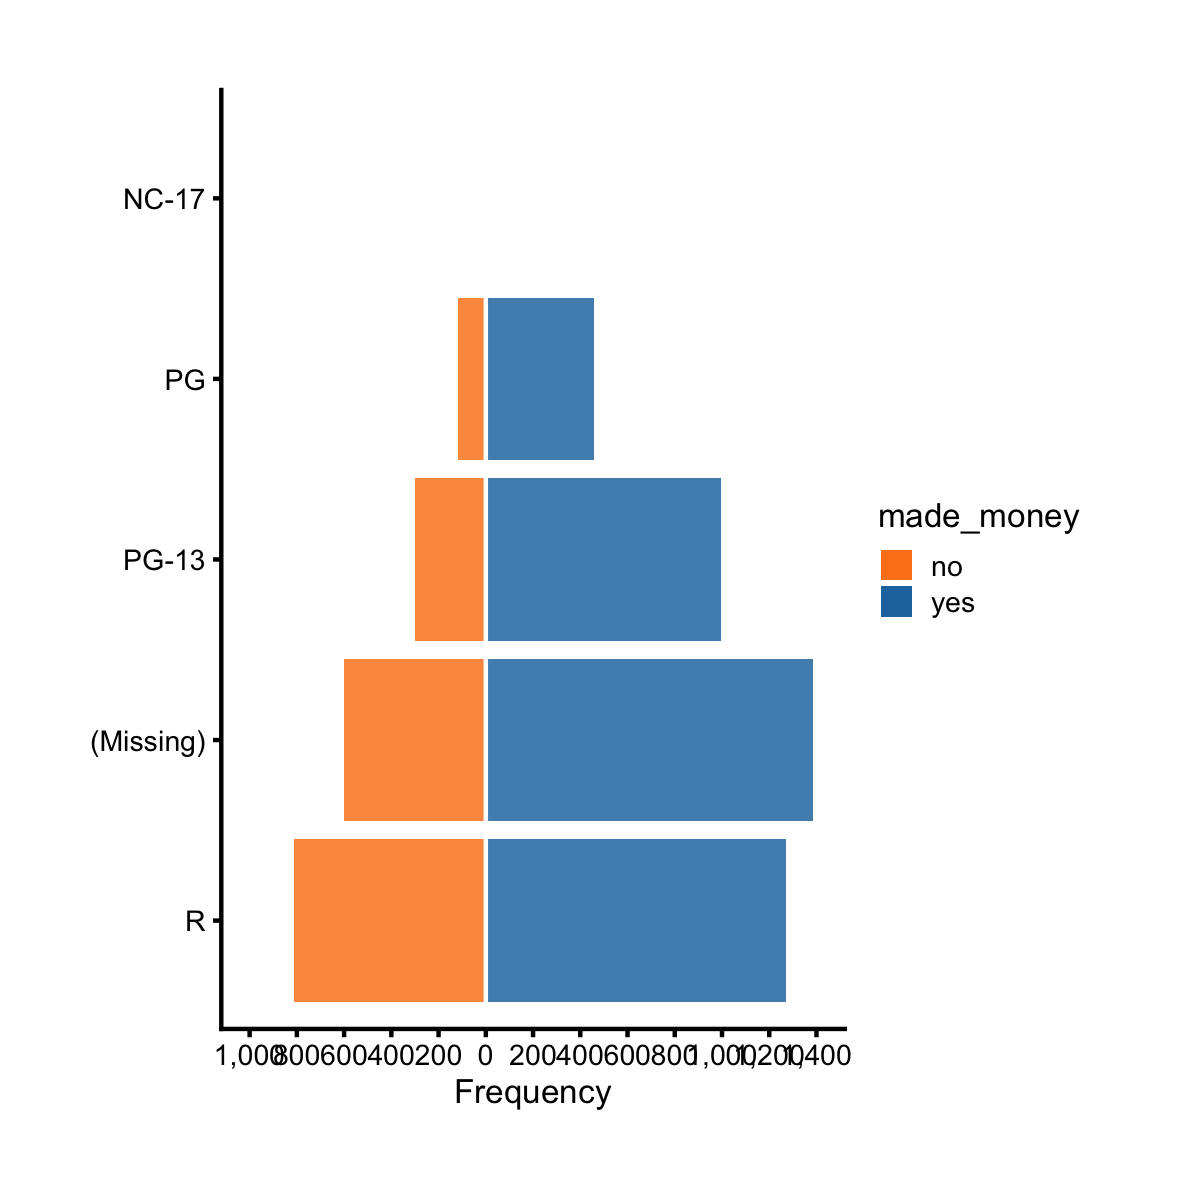
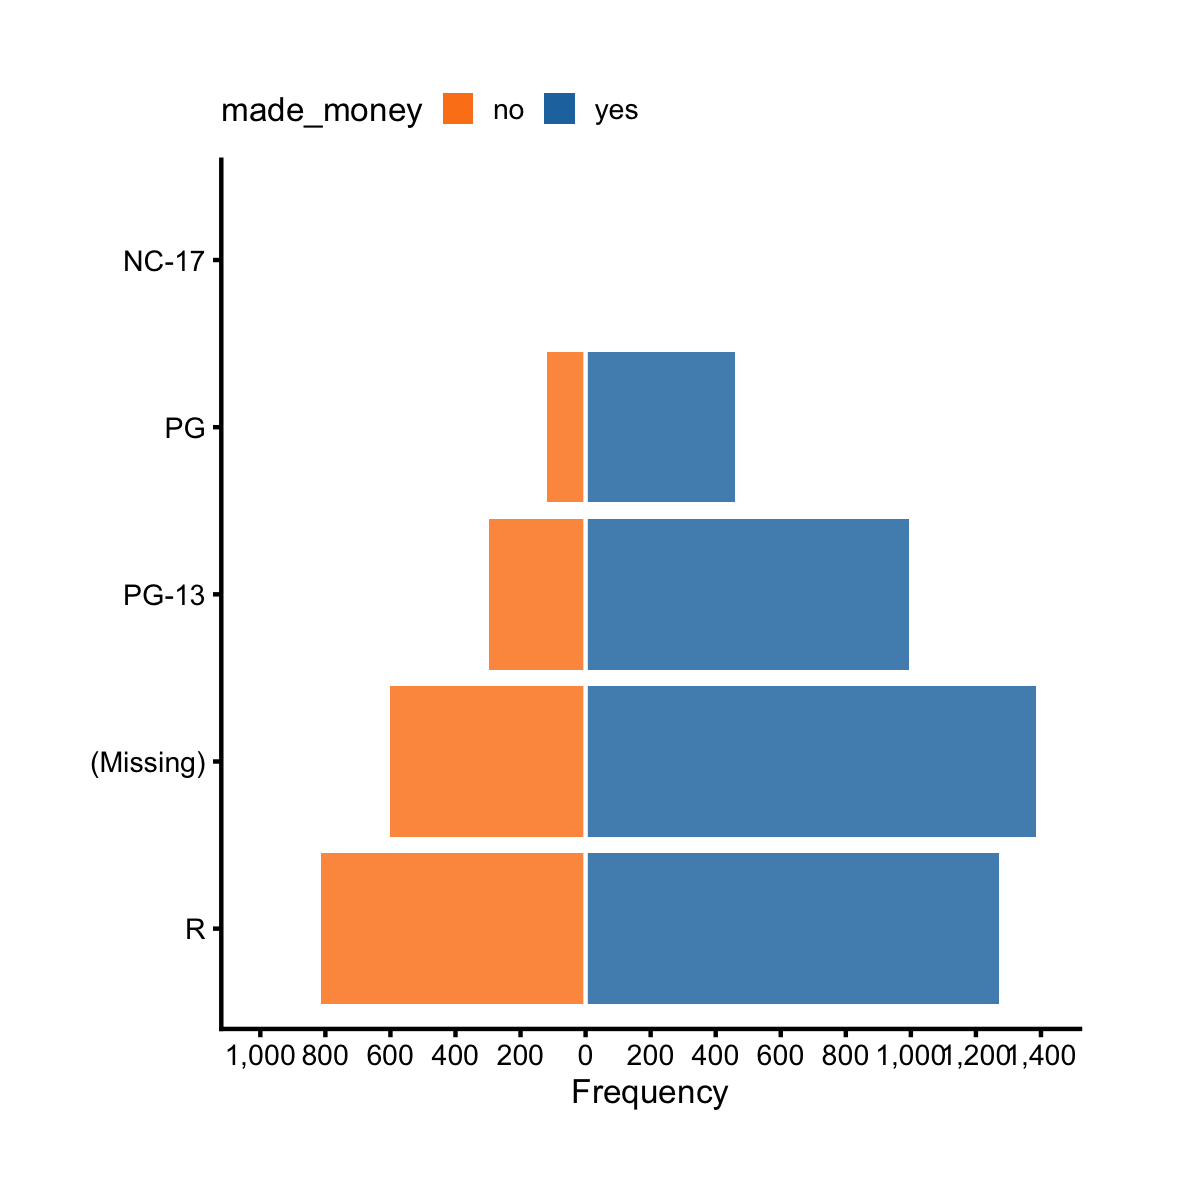
no message

diff --git a/manuscript/04-04-likertplot.md b/manuscript/04-04-likertplot.md
@@ -11,8 +11,8 @@ df = films %>% # convert implicit NA to explicit "(Missing)"
         count(mpaa, made_money) %>% group_by(mpaa) %>%
         mutate(pct = n/sum(n)) %>% ungroup()
 plt = mk_likertplot(df)
-plt(xvar = "n", yvar = "mpaa", fillby = "made_money", 
-    fillby_lvls = c("no", "yes"), yorder = "ascend", font_size = 8) %>% 
+plt(xvar = "n", yvar = "mpaa", fillby = "made_money", fillby_lvls = c("no", "yes"), 
+    yorder = "ascend", font_size = 8, legend_pos = 'top') %>% 
         add_labs(xlab = 'Frequency')
 ```
 
@@ -45,12 +45,12 @@ head(df)
 
 ```
   item slope       type spp sppInv
-1    A North     native   6      6
-2    B North     native   5      5
+1    A North     native   3      3
+2    B North     native   0      0
 3    C North     native   4      4
-4    D North     native   4      4
-5    E North     native   4      4
-6    A North introduced   6     -6
+4    D North     native   3      3
+5    E North     native   3      3
+6    A North introduced   5     -5
 ```
 
 ```r
@@ -59,12 +59,12 @@ tail(df)
 
 ```
    item slope       type spp sppInv
-15    E South     native   4      4
-16    A South introduced   7     -7
-17    B South introduced   4     -4
-18    C South introduced   4     -4
-19    D South introduced   7     -7
-20    E South introduced   2     -2
+15    E South     native   3      3
+16    A South introduced   5     -5
+17    B South introduced   9     -9
+18    C South introduced   2     -2
+19    D South introduced   6     -6
+20    E South introduced   5     -5
 ```
 
 Let's focus on North and ignore South. 
